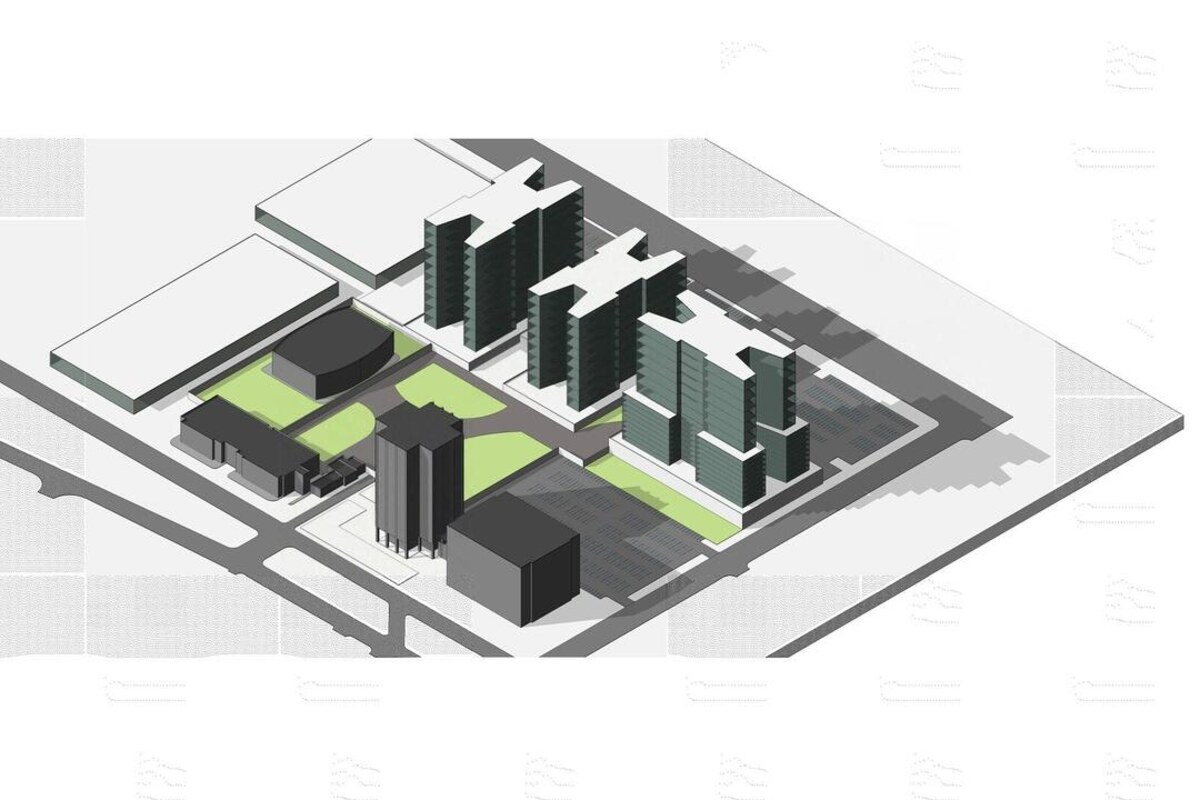
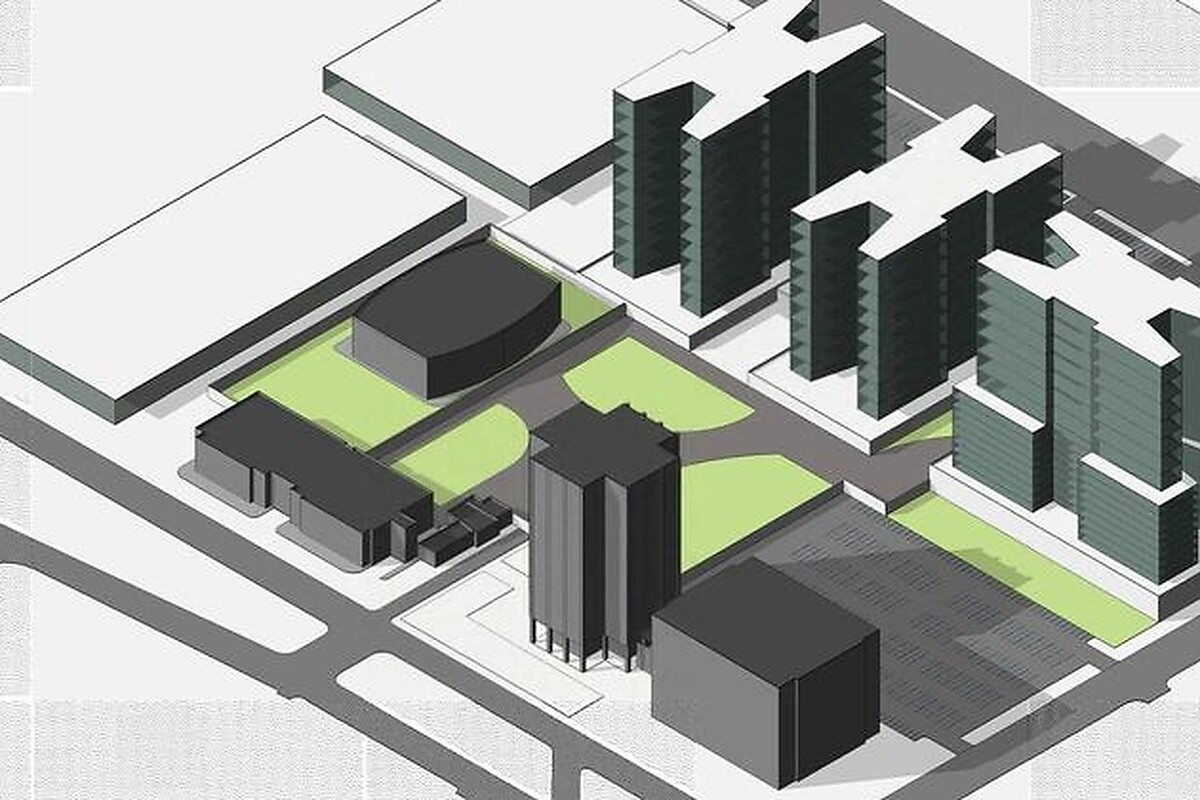
Detention tile: crop tight so the campus fills the frame

diff --git a/index.html b/index.html
@@ -1292,7 +1292,7 @@
         <a data-index="Detention" class="home-entry" href="#justice" onclick="stackOpen(&apos;justice&apos;); return false;">
           <div class="home-image-wrap">
             <div class="home-tag"><span class="num">006</span>Detention</div>
-            <img decoding="async" loading="lazy" src="images/thumbs/detention.jpg" alt="Adult Justice Center, campus massing with three new towers" onload="this.classList.add('loaded')" width="1200" height="800">
+            <img decoding="async" loading="lazy" src="images/thumbs/detention.jpg?v=2" alt="Adult Justice Center, campus massing with three new towers" onload="this.classList.add('loaded')" width="1200" height="800">
           </div>
           <div class="home-meta">
             <div class="home-meta-name">Adult Justice Center</div>
